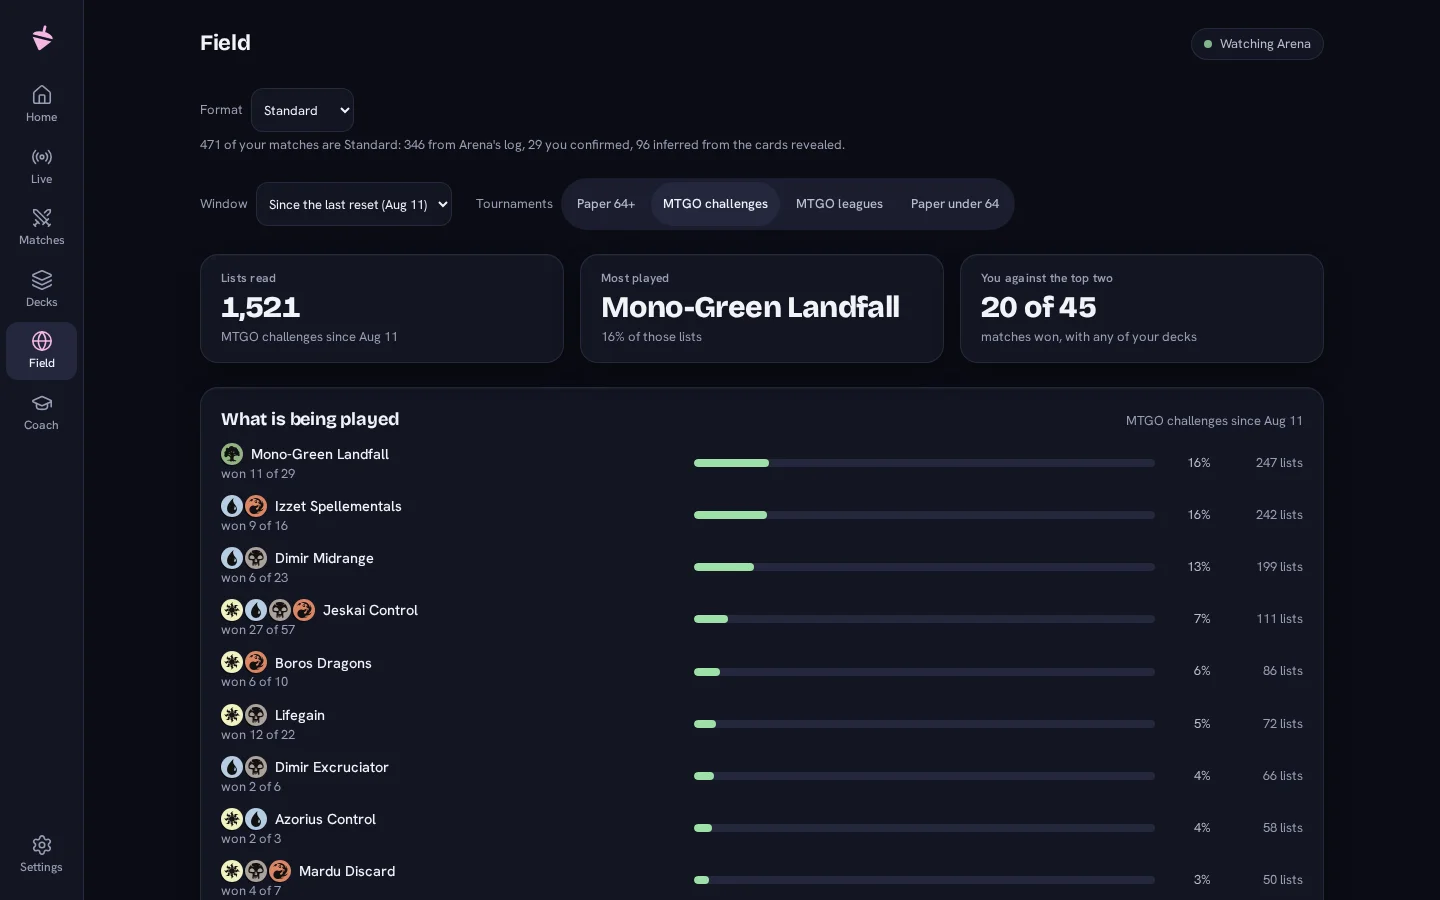
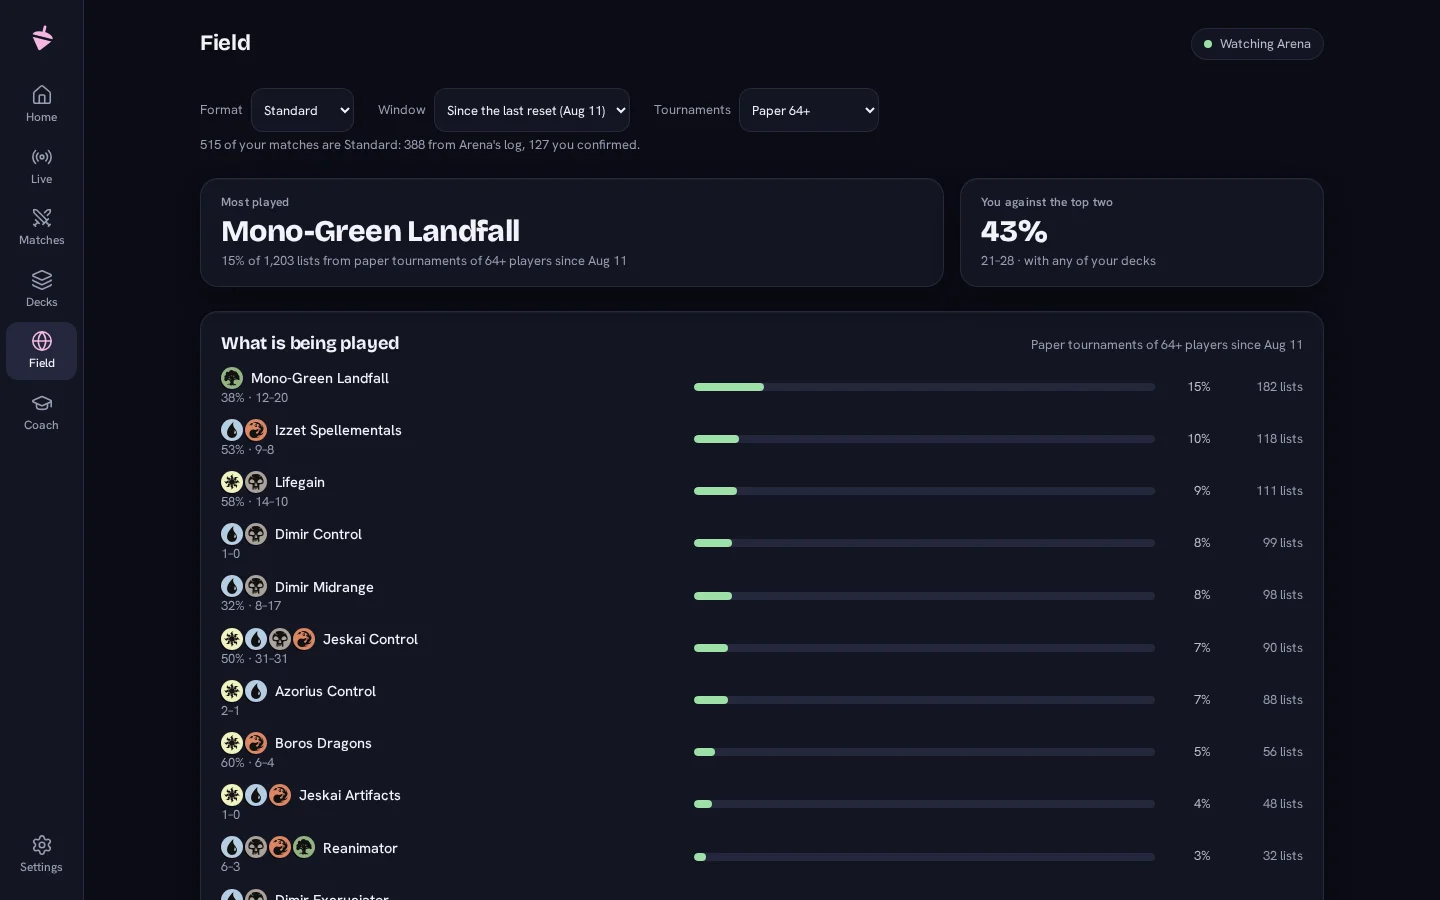
docs(site): record the design system, re-shoot Field to match Home
The Field shot and its alt text still named Magic Online Challenges while Home
counts paper tournaments of 64+ players, so the two disagreed on the top two
decks' share.

Closes: BL-019

Changed region(s): [[0.4688, 0.4667, 0.9062, 0.9956], [0.125, 0.2178, 0.625, 1.0], [0.3125, 0.0933, 0.9062, 0.4356]]

diff --git a/site/pt-br/index.html b/site/pt-br/index.html
@@ -108,7 +108,7 @@
 <h2>O meta de verdade</h2>
 <p>O metajogo a partir de resultados reais de torneios, do Magic Online e de papel, separado em níveis pela quantidade de evidência por trás da fatia de cada arquétipo, com o seu próprio histórico contra cada um no mesmo período. Por formato, e nunca atravessando um banimento.</p>
 </div>
-<figure class="shot"><figcaption>Meta</figcaption><img src="/img/pt-br/field.webp" width="1440" height="900" loading="lazy" decoding="async" alt="A página Meta: o metajogo de Standard a partir das listas dos Challenges do Magic Online desde o último reinício do formato, arquétipo por arquétipo, com o seu histórico contra cada um."></figure>
+<figure class="shot"><figcaption>Meta</figcaption><img src="/img/pt-br/field.webp" width="1440" height="900" loading="lazy" decoding="async" alt="A página Meta: o metajogo de Standard a partir de torneios de papel com 64+ jogadores desde o último reinício do formato, arquétipo por arquétipo, com o seu histórico contra cada um."></figure>
 </section>
 <section class="feature" id="coach">
 <div class="text">

diff --git a/site/index.html b/site/index.html
@@ -108,7 +108,7 @@
 <h2>The real metagame</h2>
 <p>The field from real tournament results, Magic Online and paper, tiered by how much evidence stands behind each archetype's share, with your own record against each one in the same period. Per format, and never across a ban.</p>
 </div>
-<figure class="shot"><figcaption>Field</figcaption><img src="/img/field.webp" width="1440" height="900" loading="lazy" decoding="async" alt="The Field page: the Standard metagame from Magic Online Challenge lists since the format's last reset, archetype by archetype, with your record against each."></figure>
+<figure class="shot"><figcaption>Field</figcaption><img src="/img/field.webp" width="1440" height="900" loading="lazy" decoding="async" alt="The Field page: the Standard metagame from paper tournaments of 64+ players since the format's last reset, archetype by archetype, with your record against each."></figure>
 </section>
 <section class="feature" id="coach">
 <div class="text">

diff --git a/BACKLOG.md b/BACKLOG.md
@@ -336,22 +336,6 @@ rebuild (rules 2 and 3). Until then such matches are picked format-only.
 
 **Needs:** Its own plan, if asked.
 
-### BL-019 · A Live clip on the landing
-
-type: feat · priority: P3 · status: needs-decision · area: site
-
-A Live clip or a short video on the landing (plan 21, D2): the page shows
-the Live capture of a real unranked match cut mid-game, and no motion beyond
-a row rising into view.
-
-**Why deferred:** Deferred to after the beta, by the user's choice
-(2026-10-13): a clip is a second pipeline (a cut match replayed through the
-dashboard, recorded, then cut and encoded) and a weight cap of its own.
-
-**Needs:** A decision on clip or video; the recording pipeline beside
-`site-images.mjs`; a cap in `tests/test_site.py`; `ffmpeg` is on the
-machine.
-
 ### BL-020 · Caution cards
 
 type: feat · priority: P3 · status: needs-decision · area: table web

diff --git a/CHANGELOG.md b/CHANGELOG.md
@@ -17,6 +17,9 @@ and this project adheres to [Semantic Versioning](https://semver.org/spec/v2.0.0
   Brazilian Portuguese: how Sensei Top differs from Untapped, Sensei Top on
   Linux and the Steam Deck, and Sensei Top for Magic Online. The site now
   has a sitemap, and each page's title says what the app is.
+- A new look for [senseitop.com](https://senseitop.com): the landing opens on
+  a short demo of the app with captions, in English and Brazilian Portuguese,
+  and now has a roadmap.
 
 ### Fixed
 
